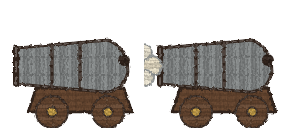
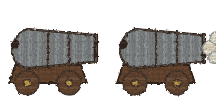
Bombards: muzzle on the firing side, and a solid carriage you can stand on that never hurts
Claude-Session: https://claude.ai/code/session_01Ub925vA7W77qaH7zf1hUDR

diff --git a/unity/Assets/Scripts/Core/Level.cs b/unity/Assets/Scripts/Core/Level.cs
@@ -77,6 +77,7 @@ namespace Tapestry
                         case '1': case 'M': case 'W': case 'R': case '^': case '|': case 'V': case '*': case '_': case 'D': case ';': case '8': case '(': case ')': case '7': case '%':
                         case ',': case '.': case '/': case '-':
                             tiles[x, y] = c; break;
+                        case 'ȼ': tiles[x, y] = 'ȼ'; Spawns.Add(new KeyValuePair<char, Vector2>(c, new Vector2(x + 0.5f, y))); break;   // a bombard: a solid carriage to stand upon, with its drawn barrel over it
                         case 'ø': tiles[x, y] = 'ø'; Spawns.Add(new KeyValuePair<char, Vector2>(c, new Vector2(x + 0.5f, y + 1f))); break;   // an urn (solid) with a biting plant upon it
                         case 'ŵ': tiles[x, y] = 'ŵ'; break;                                                                                  // a well-head (solid)
                         case 'F': tiles[x, y] = 'F'; Spawns.Add(new KeyValuePair<char, Vector2>(c, new Vector2(x + 0.5f, y + 0.5f))); break;
@@ -155,7 +156,7 @@ namespace Tapestry
             switch (Get(x, y))
             {
                 case '#': case 'B': case '?': case 'H': case 'X': case 'T': case 't':
-                case '1': case 'M': case 'W': case 'R': case 'V': case '_': case 'F': case 'D': case '8': case '7': case '%': case ',': case '/': case 'ø': case 'ŵ': return true;
+                case '1': case 'M': case 'W': case 'R': case 'V': case '_': case 'F': case 'D': case '8': case '7': case '%': case ',': case '/': case 'ø': case 'ŵ': case 'ȼ': return true;
                 case '(': return MirrorState == 0;
                 case ')': return MirrorState == 1;
                 default: return false;

diff --git a/unity/Assets/Scripts/Actors/Enemy.cs b/unity/Assets/Scripts/Actors/Enemy.cs
@@ -50,7 +50,7 @@ namespace Tapestry
                 case "lapdog": speed = 2.6f; break;
                 case "smith": speed = 1.4f; break;
                 case "snail_spike": speed = 1.0f; break;
-                case "bombard": speed = 0f; timer = 1f; break;
+                case "bombard": speed = 0f; timer = 1f; gravity = false; Untouchable = true; break;   // its carriage is a solid tile (stand upon it); the beast is only the barrel, which fires
                 case "imp_cloud": gravity = false; timer = 1f; break;
                 case "hedgehog": speed = 1.9f; break;
                 case "snail_wing": speed = 1.1f; gravity = false; winged = true; break;
@@ -593,7 +593,6 @@ namespace Tapestry
         public bool OnKnight(Knight k, bool fromAbove)
         {
             if (!Alive || k.Dead) return false;
-            if (Kind == "bombard") { Audio.Play("clang", 0.5f); if (fromAbove) k.Bounce(); else k.Hurt(); return false; }   // a firm iron thing: land on it and bounce off
             if (winged)   // a stomp clips its wings: it drops and walks
             {
                 if (!fromAbove) { k.Hurt(); return false; }

diff --git a/tools/emb/extras.py b/tools/emb/extras.py
@@ -169,9 +169,9 @@ def bombard(f):
     s += dot(58, 24, 3, "dark")
     if f == 1:
         s += dot(0, 27, 5, "cream", "grey") + dot(-4, 20, 4, "white", "grey") + dot(-3, 33, 4, "white", "grey")
-    return g(s, "translate(4 6)")
-C["bombard"] = dict(title="Bombarde", size=(72, 64), frames=2, build=bombard,
-                    behaviour="stands fast and fires a slow iron ball along the ground at a knight in range; stomping its barrel only bounces you; the relique smites it")
+    return g(s, "translate(51 4) scale(-0.75 0.75)")   # drawn muzzle to the left, then mirrored (the game draws things facing right) and shrunk to sit on one tile
+C["bombard"] = dict(title="Bombarde", size=(54, 50), frames=2, build=bombard,
+                    behaviour="a solid iron carriage to stand upon (it never harms the knight); fires a slow iron ball along the ground at a knight in range")
 
 def cannonball(f):
     s = dot(10, 10, 9, "dark", "grey") + dot(7, 7, 2.6, "cream")

diff --git a/unity/README.md b/unity/README.md
@@ -177,7 +177,7 @@ The longer levels have a **halfway banner**. Touch it and it turns red; if you d
 - **Secret doors:** an oaken door is set in the tapestry in 3-3, 5-2 and 6-3, faint until you come within three tiles. Stand in front of it and press UP to slip through: you earn 1000 glory and skip straight to the first level of the next world (4-1, 6-1 or 7-1). If that world is locked, the paywall opens instead.
 - **Night and snow:** some levels have weather. After dark (1-2, 4-2, 5-3, 7-2) the screen takes a deep blue wash with twinkling stars and a sleepy crescent moon; in snow (4-1, 5-1) flakes drift down over a pale wash. It is only a look, drawn under the HUD, and changes nothing about play. Set it per level with `WEATHER` in `tools/unity/make_levels.py`.
 - **Cloud Imp:** an imp in spectacles who rides a cloud a little above head height, keeps just ahead of you, and every few seconds drops a spiny egg that hatches into a hedgehog when it lands (no more than three hedgehogs at once). Stomp the imp from a jump or shoot him; hedgehogs hurt a stomper, so shoot them, leap them or smite them with the relique. In 4-3, 5-1, 5-2, 6-1, 6-3, 7-1 and 7-3.
-- **Bombards:** an iron cannon on a wooden carriage that turns to face you and, when you are within nine tiles, fires a slow iron ball straight along the ground every few seconds. Leap the ball; land on the barrel and you just bounce. Bolts do not harm it, but the holy relique smites it. Found in 5-1, 5-2, 6-2, 7-1 and 7-3.
+- **Bombards:** an iron cannon on a wooden carriage that turns to face you and, when you are within nine tiles, hisses a fuse and fires a slow iron ball straight along the ground every few seconds. Leap the ball. The cannon itself is a solid block and never hurts you: jump on it and stand on it. Found in 5-1, 5-2, 6-2, 7-1 and 7-3.
 - **Falling and balance lifts:** a reddish board shudders when you stand on it, then drops away (and is hung again a few seconds later). Balance boards come in pairs: your weight lowers one and raises the other, so hop across as it sinks. Found in 4-3, 6-3 (balance), 7-1 (both) and 7-2 (falling).
 - **Winged Snail-Hound:** a blue snail-hound that flies a lazy loop. Stomp it once to clip its wings (it drops and walks), then stomp it into its shell as usual. Found from World 4 on (4-1, 4-2, 4-3, 5-1 and onward, 6-1 to 6-3, 7-1, 7-3).
 - **Armoured Snail-Hound:** a grey, spiked snail that plods along. Stomping it hurts the knight; shoot it or smite it with the relique. Found in 4-1, 4-3, 5-1 to 5-2, 6-1, 7-1 to 7-3.
